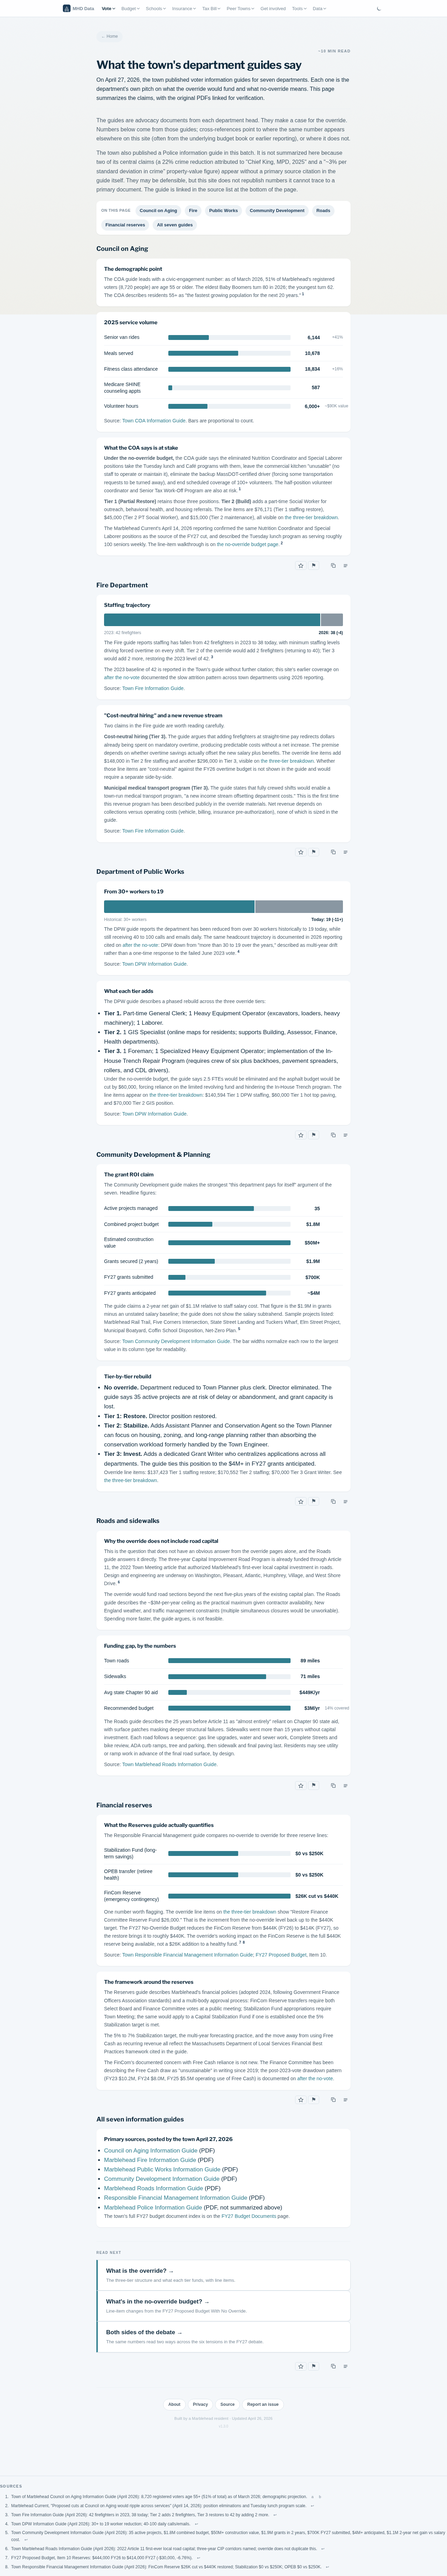
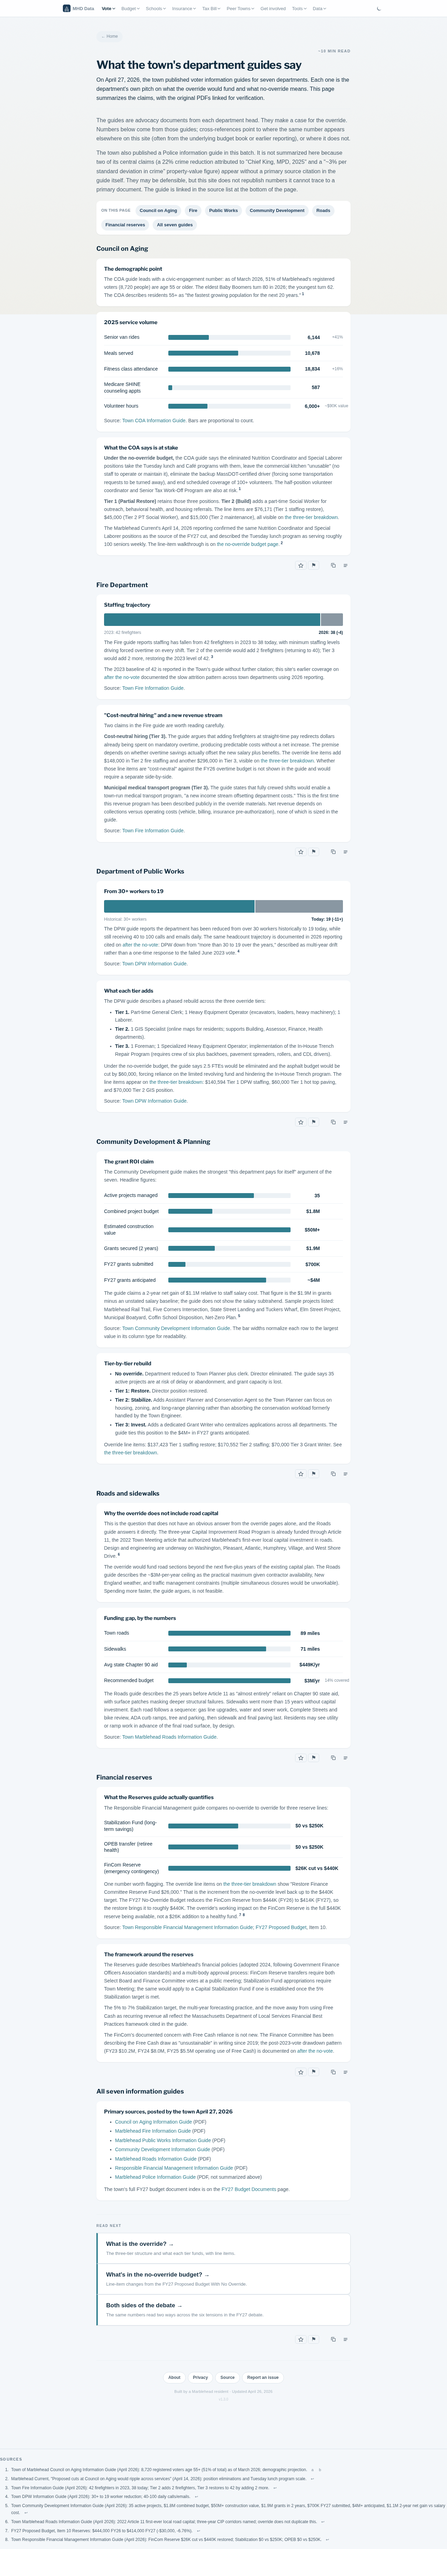
Style plain bullets and numbered lists inside .card
Direct <ul>/<ol> children of .card had no styling, so bullet items
inherited the bright body color while .card p uses --text-muted, making
list-then-paragraph patterns look like the trailing paragraph was a
muted continuation of the last bullet. Bullets also sat flush against
the card padding line with no useful indent.

Now matches .card p font size and color, with <strong> lead-ins
(Tier 1./Tier 2./etc.) rendering in --text. 2.25em padding-left gives
bullets visible breathing room from the card edge. Scoped to direct
children so bespoke list components (tier-list, tldr ul, etc.) are
unaffected.

Smoke tests: 53 passed, 0 failed.

Changed region(s): [[0.2188, 0.0312, 0.7812, 0.4686], [0.2188, 0.4999, 0.75, 0.906], [0.0312, 0.9685, 0.6875, 0.9997]]

diff --git a/assets/site.css b/assets/site.css
@@ -1146,6 +1146,35 @@ html[data-theme="light"] .question:hover .spark-bg { opacity: 0.14; }
 .card p  { font-size: 0.875rem; margin-bottom: 8px; color: var(--text-muted); }
 .card p:last-child { margin-bottom: 0; }
 
+/* Bullet/numbered lists inside cards. Match .card p font size and color so
+   list items visually align with the surrounding card prose, and leave
+   enough bottom margin that a following <p> doesn't crash into the list.
+   Bespoke list components (tier-list, tldr ul, etc.) have their own
+   list-style:none rules and are unaffected because they don't render as
+   plain ul children of .card. */
+.card > ul,
+.card > ol,
+.card > details > ul,
+.card > details > ol {
+  margin: 0 0 12px;
+  padding-left: 2.25em;
+  color: var(--text-muted);
+  font-size: 0.875rem;
+}
+.card > ul { list-style: disc; }
+.card > ol { list-style: decimal; }
+.card > ul > li,
+.card > ol > li,
+.card > details > ul > li,
+.card > details > ol > li {
+  line-height: 1.6;
+  margin: 4px 0;
+}
+.card > ul > li strong,
+.card > ol > li strong { color: var(--text); }
+.card > ul:last-child,
+.card > ol:last-child { margin-bottom: 0; }
+
 .tier-label {
   font-size: 0.6875rem; font-weight: 700; text-transform: uppercase;
   letter-spacing: 1px; color: var(--text-subtle); margin-bottom: 6px;
